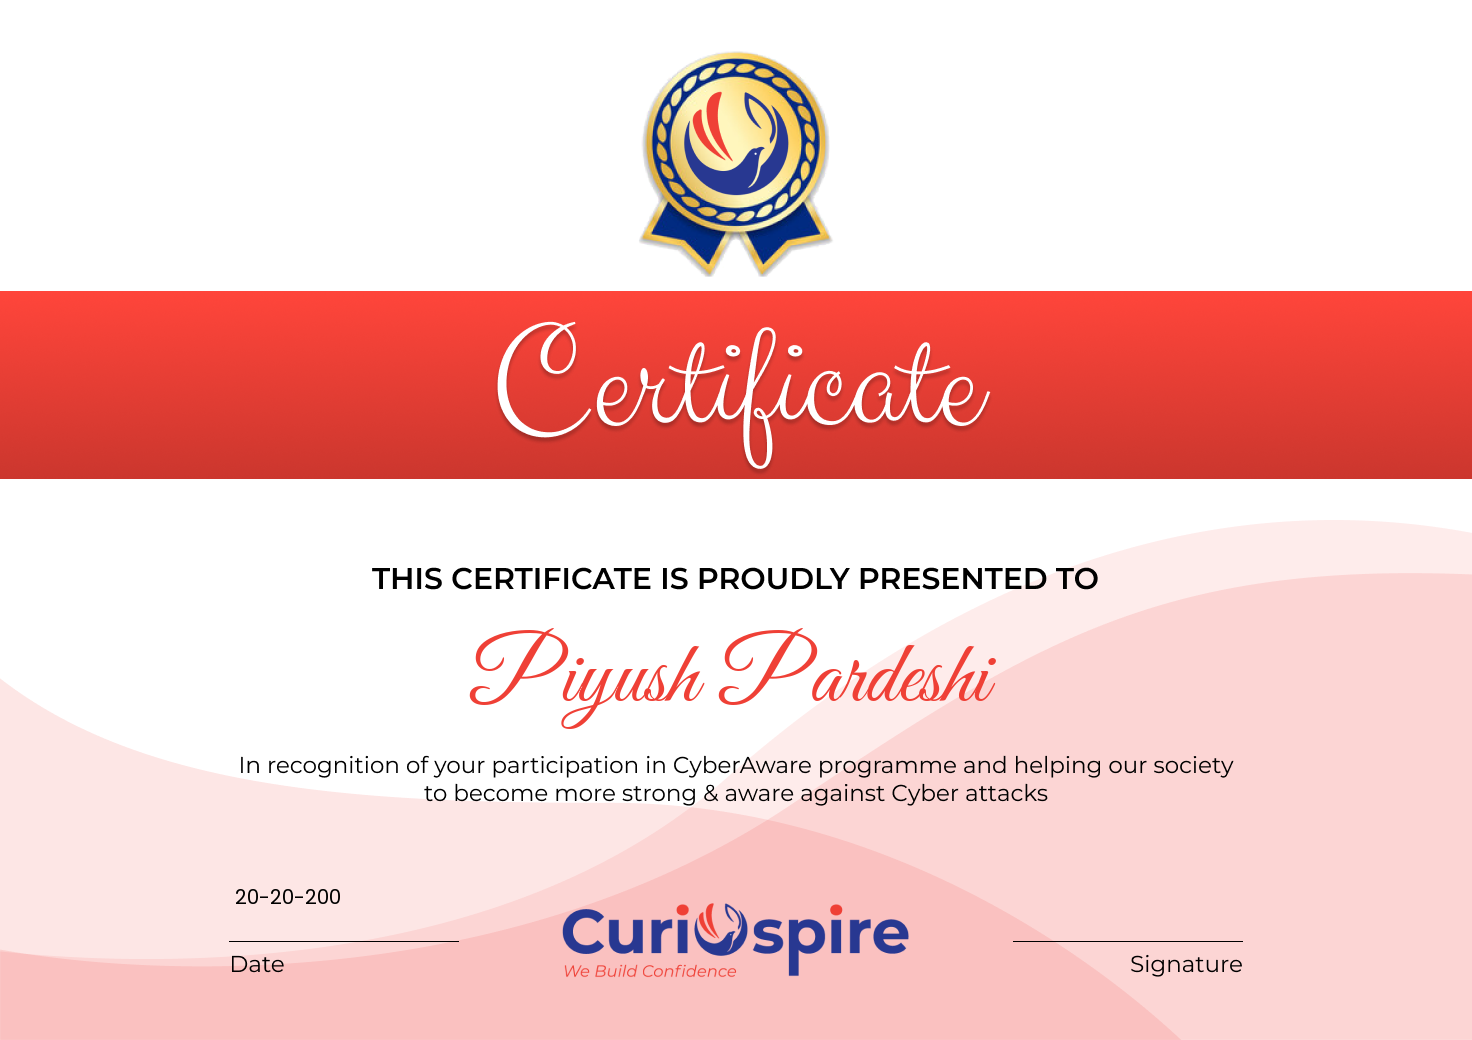
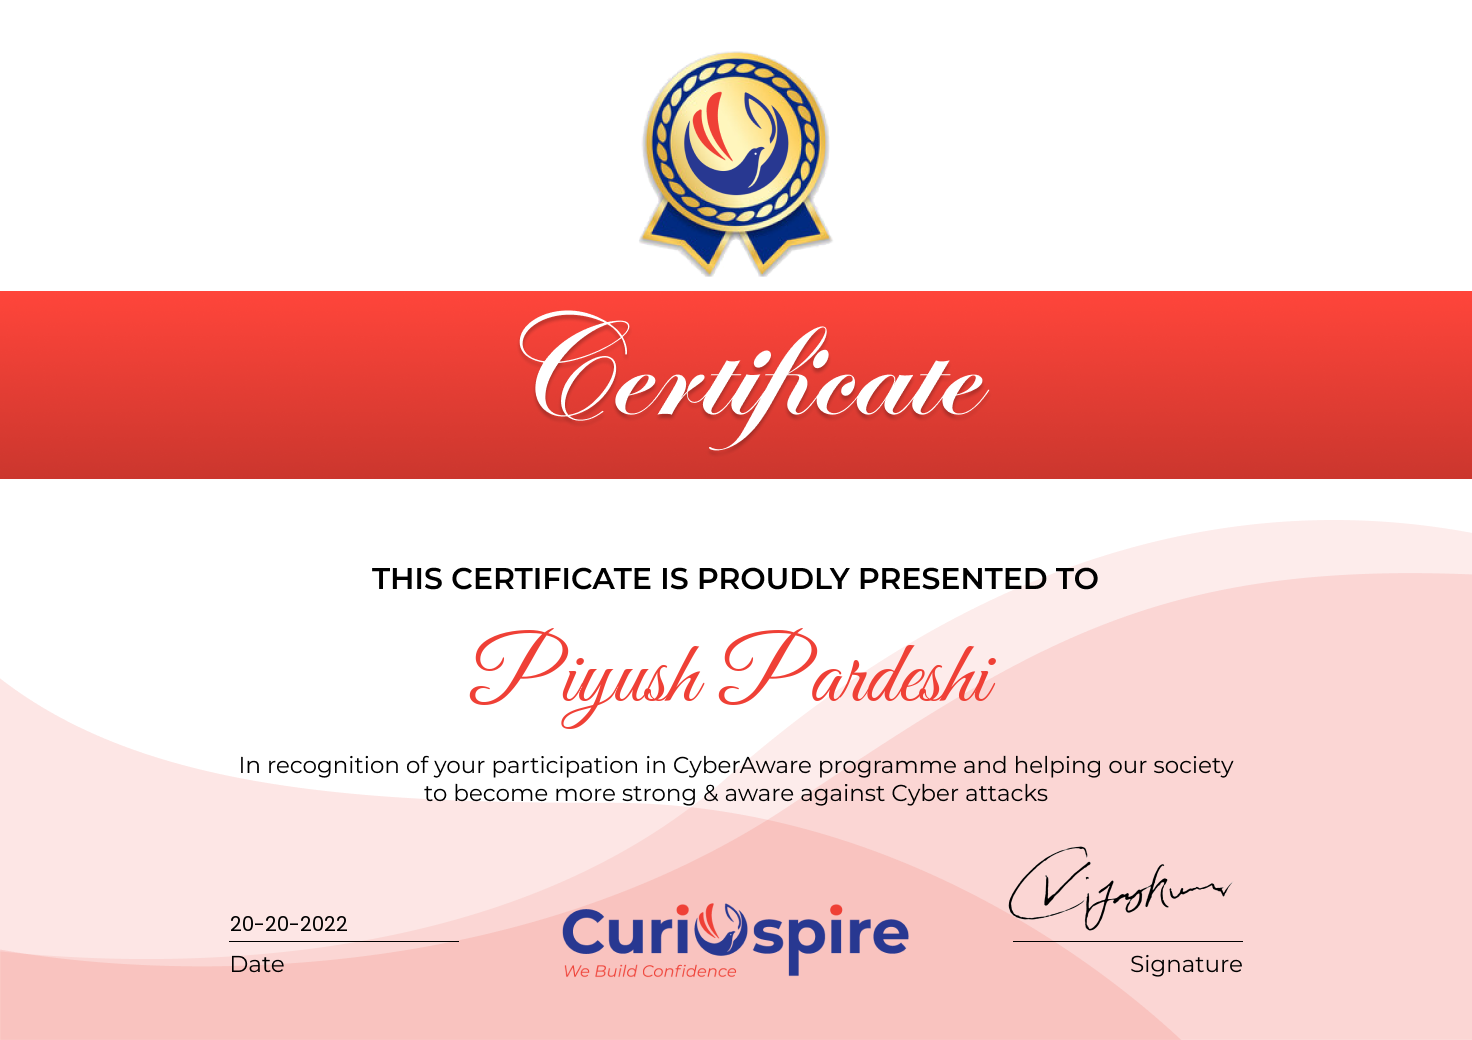
changes

Changed region(s): [[0.3125, 0.2769, 0.6875, 0.4615], [0.6875, 0.8308, 0.8125, 0.8923], [0.1562, 0.8615, 0.25, 0.8923]]

diff --git a/main.py b/main.py
@@ -48,7 +48,7 @@ def make_certificates(name, date):
 
     # Placing it in the center, then making some adjustments.
     draw.text(((WIDTH - name_width) / 2, (HEIGHT - name_height) / 2 + 150), name, fill=FONT_COLOR, font=FONT_FILE)
-    draw.text((235, 883), date, fill=POPPINS_COLOR, font=POPPINS_FONT)
+    draw.text((230, 910), date, fill=POPPINS_COLOR, font=POPPINS_FONT)
 
 
     # Saving the certificates in a different directory.
